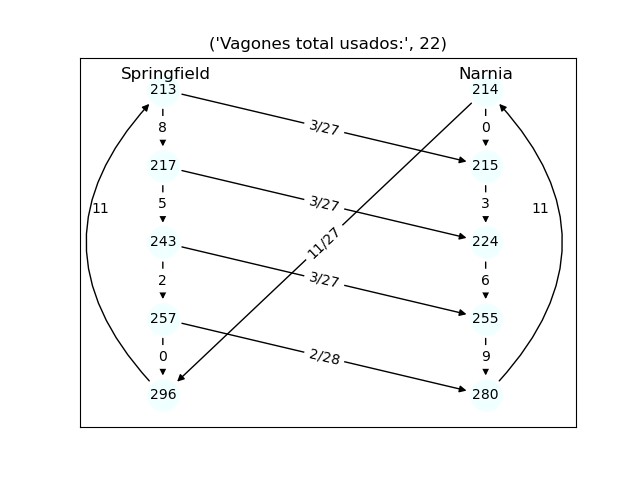
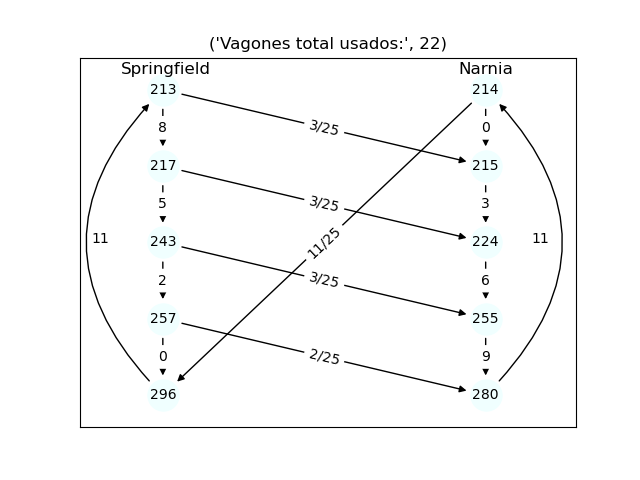
pushing

diff --git a/src/probanding.py b/src/probanding.py
@@ -23,8 +23,8 @@ def Grafo(data):
 
     G = nx.DiGraph()
     cost_per_unit = data["cost_per_unit"]
-    print(cost_per_unit)
 
+    max_night_capacity = data.get("max_night_capacity", {})
 
     # para cada servicio independiente de que tipo
     for service_id, service_info in data["services"].items():
@@ -91,14 +91,14 @@ def Grafo(data):
             )
 
         costo_trasnoche = cost_per_unit[estacion] 
-        print(costo_trasnoche)
+        cap = max_night_capacity.get(estacion,float("inf"))
 
         G.add_edge(
 
             # primer y ultimo nodo
             nodos_ordenados[-1], nodos_ordenados[0],
             tipo="trasnoche",
-            capacidad=float("inf"),
+            capacidad=cap,
             costo=costo_trasnoche,
         )
 
@@ -219,7 +219,7 @@ def plotear(G, flow_dict, estaciones, solucion):
             
             # estaciones distintas
             if not set(u.split("_")) & set(v.split("_")):
-                edge_labels[(u, v)] = f"{flujo}/{etiqueta+5}"
+                edge_labels[(u, v)] = f"{flujo}/25"
 
             # estaciones iguales
             else:
@@ -266,7 +266,7 @@ def plotear(G, flow_dict, estaciones, solucion):
 
 def main():
 
-    filename = "instances/exp_5.json"
+    filename = "instances/exp_6.json"
     with open(filename) as json_file:
         data = json.load(json_file)
 
